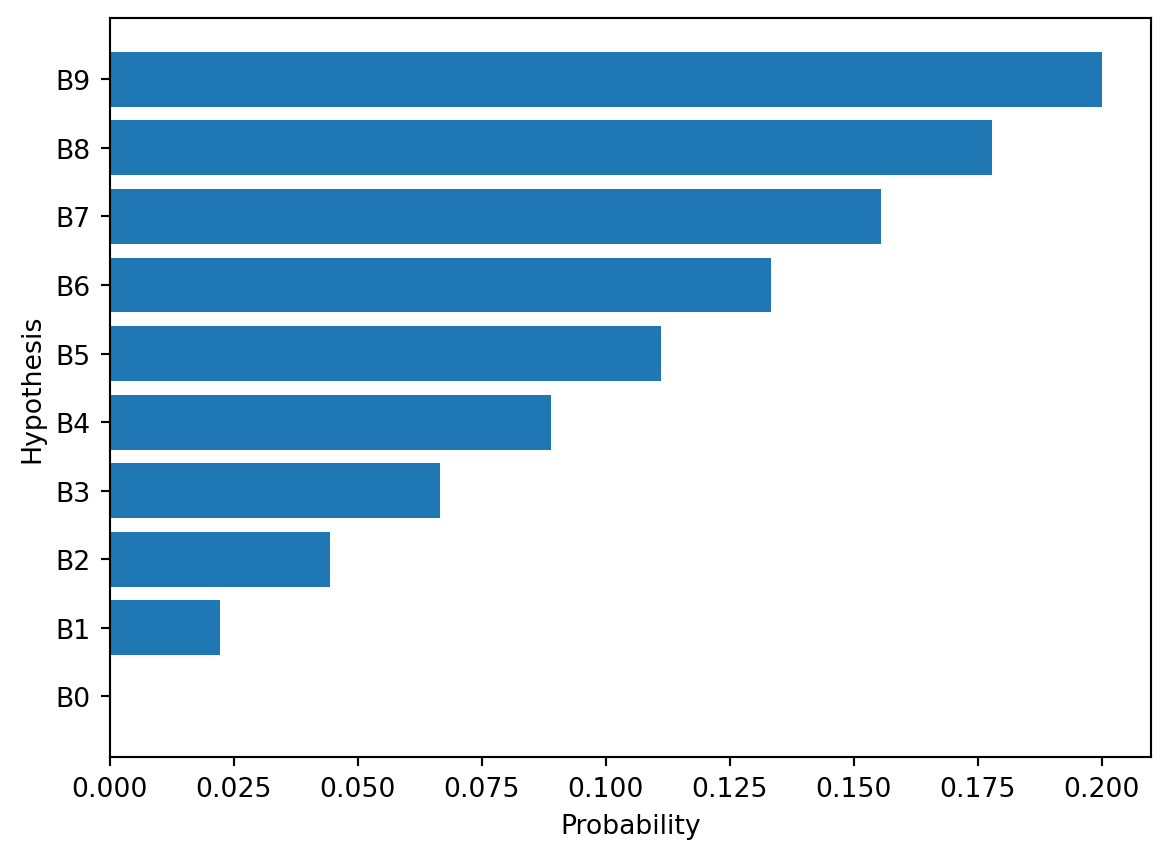
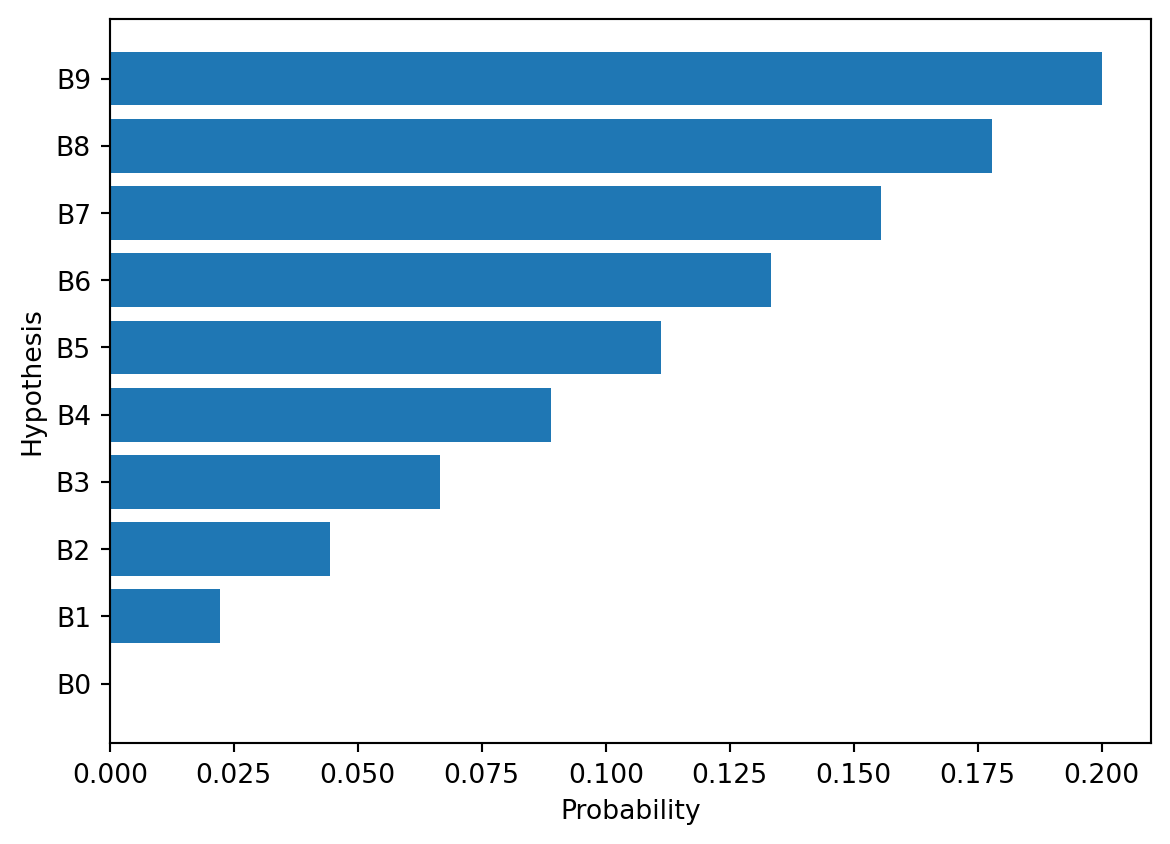
Revisions to Chapter 1

diff --git a/docs/01-intro.html b/docs/01-intro.html
@@ -219,27 +219,27 @@ gtag('config', 'G-HG2MG0W08W', { 'anonymize_ip': true});
 </header>
 
 <p>The field of psychology is full of theories. But this book is focused on a specific type of theory: the type that can be formalized as a computational model.</p>
-<p>What advantage does a computational (or mathematical) theory have over one that can’t be expressed in computational terms? The biggest advantage is precision. For example, suppose you say that attention is like a spotlight 🔦: you can attend to things that are currently within the light, and you can control where the light is shining, but things outside of the light are outside of our awareness. This is a kind of theory – an analogy-based one – and it’s a good start for making some general <em>qualitative</em> predictions about how attention works.</p>
+<p>What advantage does a computational (or mathematical) theory have over one that can’t be expressed in computational terms? The biggest advantage is precision. For example, suppose you say that attention is like a spotlight 🔦: we can attend to things that are currently within the light, and we can control where the light is shining, but things outside of the light are outside of our awareness. This is a kind of theory – an analogy-based one – and it’s a good start for making some general <em>qualitative</em> predictions about how attention works.</p>
 <p>But you’ll quickly run into problems if you want to make precise <em>quantitative</em> predictions about attention. How big is the spotlight? Does the size expand and contract? How quickly does it move around? Is attention completely absent outside of the spotlight or does it ramp down as you get near the edge of the light? In other words, if you wanted to build a computer model of this theory, a simple analogy doesn’t cut it.</p>
-<p><em>Computational models, if nothing else, force us to be explicit about all of our assumptions.</em></p>
+<p><em>Computational models force us to be explicit about our assumptions.</em></p>
 <section id="representations" class="level2" data-number="1.1">
 <h2 data-number="1.1" class="anchored" data-anchor-id="representations"><span class="header-section-number">1.1</span> Representations 🔸</h2>
-<p>We don’t perceive the world as it truly is. As one example, the visible spectrum that our eyes can detect is just a fraction of the full electromagnetic spectrum. Similarly, we can only hear a narrow range of audible sound frequencies. In other words, we perceive an incomplete picture of the surrounding world.</p>
+<p>We don’t perceive the world as it truly is. As one example, the visible spectrum that our eyes can detect is just a fraction of the full electromagnetic spectrum. Similarly, we can only hear a narrow range of sound frequencies. In other words, we perceive an incomplete picture of the world.</p>
 <div class="quarto-figure quarto-figure-center">
 <figure class="figure">
 <p><img src="images/01/range_of_sensation.png" class="img-fluid figure-img"></p>
 <figcaption class="figure-caption">Source: Abstruse Goose.</figcaption>
 </figure>
 </div>
-<p>Similarly, we are constantly making assumptions about the things we see and hear and using those assumptions to fill in gaps.</p>
-<p>What we have in our heads is a kind of model of the world around us – what cognitive scientists call a mental representation. These representations help us to reach rapid conclusions about things involving language, causes and effects, concepts, mental states, and many other aspects of cognition.</p>
+<p>Even for the parts of the world that we <em>can</em> perceive, the information we get through our senses is often incomplete, so we are constantly making assumptions to fill in gaps.</p>
+<p>As a result, what we have in our heads is a kind of model of the world around us – what cognitive scientists call a mental representation. These representations help us to reach rapid conclusions about things involving language, causes and effects, concepts, mental states, and many other aspects of cognition.</p>
 <p>Some of the key questions for cognitive scientists who use computational models are:</p>
 <ol type="1">
 <li>What mental representations do we rely on?</li>
 <li>How do our minds use these representations to learn when we get new information?</li>
 <li>What kind of information do we get and how do our expectations about the kind of information we’re getting to affect how we use it?</li>
 </ol>
-<p>This book will elaborate, with examples, on each of these questions.</p>
+<p>This book focuses on each of these questions.</p>
 </section>
 <section id="homework-1-build-your-first-computational-model" class="level2" data-number="1.2">
 <h2 data-number="1.2" class="anchored" data-anchor-id="homework-1-build-your-first-computational-model"><span class="header-section-number">1.2</span> Homework 1: Build your first computational model 💻</h2>
@@ -249,9 +249,7 @@ gtag('config', 'G-HG2MG0W08W', { 'anonymize_ip': true});
 </figure>
 </div>
 <p>To get some initial experience with computational modeling, you’ll build and experiment with a simple model of classical conditioning developed by Robert Rescorla and Allan Wagner – now called the Rescorla-Wagner model.</p>
-<p>All homework assignments for this book will be done in Google Colab. Click the button above at the top of this section view Homework 1.</p>
-<p>If you’re unfamiliar with Colab (or Jupyter Notebooks), watch this brief introduction video.</p>
-<div class="quarto-video ratio ratio-16x9"><iframe data-external="1" src="https://www.youtube.com/embed/inN8seMm7UI" title="" frameborder="0" allow="accelerometer; autoplay; clipboard-write; encrypted-media; gyroscope; picture-in-picture" allowfullscreen=""></iframe></div>
+<p>All homework assignments for this book will be done in Google Colab. Click the button at the top of this section to view Homework 1.</p>
 <div class="callout callout-style-default callout-note callout-titled">
 <div class="callout-header d-flex align-content-center">
 <div class="callout-icon-container">
@@ -265,6 +263,10 @@ Note
 <p>You’ll have to make a copy of the notebook saved to your own Drive in order to edit it.</p>
 </div>
 </div>
+<p>If you’re unfamiliar with Colab (or Jupyter Notebooks), watch this brief introduction video.</p>
+<div class="quarto-video ratio ratio-16x9"><iframe data-external="1" src="https://www.youtube.com/embed/inN8seMm7UI" title="" frameborder="0" allow="accelerometer; autoplay; clipboard-write; encrypted-media; gyroscope; picture-in-picture" allowfullscreen=""></iframe></div>
+<p>This video gives some extra tips for working with Colab.</p>
+<div class="quarto-video ratio ratio-16x9"><iframe data-external="1" src="https://www.youtube.com/embed/rNgswRZ2C1Y?si=aVooywIqX0_G0NId" title="" frameborder="0" allow="accelerometer; autoplay; clipboard-write; encrypted-media; gyroscope; picture-in-picture" allowfullscreen=""></iframe></div>
 
 
 </section>

diff --git a/docs/02-bayes.html b/docs/02-bayes.html
@@ -257,7 +257,7 @@ gtag('config', 'G-HG2MG0W08W', { 'anonymize_ip': true});
 
 <header id="title-block-header" class="quarto-title-block default">
 <div class="quarto-title">
-<h1 class="title"><span id="bayes" class="quarto-section-identifier"><span class="chapter-number">2</span>&nbsp; <span class="chapter-title">Bayesian inference</span></span></h1>
+<h1 class="title"><span class="chapter-number">2</span>&nbsp; <span class="chapter-title">Bayesian inference</span></h1>
 </div>
 
 
@@ -340,7 +340,7 @@ gtag('config', 'G-HG2MG0W08W', { 'anonymize_ip': true});
 <pre><code>Text(0, 0.5, 'Number of samples')</code></pre>
 </div>
 <div class="cell-output cell-output-display">
-<p><img src="02-bayes_files/figure-html/cell-4-output-2.png" width="602" height="429"></p>
+<p><img src="02-bayes_files/figure-html/cell-4-output-2.png" width="601" height="422"></p>
 </div>
 </div>
 <p>Now for the next step. For each sample in <code>prior_samples</code>, we want to sample an observation. To do that, let’s pause for a second and think about the probability of pulling a black ball given that hypothesis <span class="math inline">\(B_3\)</span> is true, for example. This means that there are 3 black balls and 6 red balls in the bag. So the probability of pulling a black ball from the bag at random will be 3/9.</p>
@@ -358,7 +358,7 @@ gtag('config', 'G-HG2MG0W08W', { 'anonymize_ip': true});
 <span id="cb9-2"><a href="#cb9-2" aria-hidden="true" tabindex="-1"></a>                                  p <span class="op">=</span> p_black)</span>
 <span id="cb9-3"><a href="#cb9-3" aria-hidden="true" tabindex="-1"></a><span class="bu">print</span>(ball_samples[<span class="dv">0</span>:<span class="dv">9</span>])</span></code><button title="Copy to Clipboard" class="code-copy-button"><i class="bi"></i></button></pre></div>
 <div class="cell-output cell-output-stdout">
-<pre><code>[0 1 0 0 1 1 0 1 1]</code></pre>
+<pre><code>[1 0 1 0 1 1 0 1 1]</code></pre>
 </div>
 </div>
 <p><code>ball_samples</code> is 1 for black and 0 for red. Once again, let’s plot all our samples.</p>
@@ -371,7 +371,7 @@ gtag('config', 'G-HG2MG0W08W', { 'anonymize_ip': true});
 <pre><code>Text(0, 0.5, 'Number of samples')</code></pre>
 </div>
 <div class="cell-output cell-output-display">
-<p><img src="02-bayes_files/figure-html/cell-7-output-2.png" width="602" height="411"></p>
+<p><img src="02-bayes_files/figure-html/cell-7-output-2.png" width="601" height="404"></p>
 </div>
 </div>
 <p>You can think of this plot representing our overall beliefs about the number of red and black balls in the bag, averaged over all possible hypotheses.</p>
@@ -467,7 +467,7 @@ P(B9|B) = 0.2</code></pre>
 <pre><code>Text(0, 0.5, 'Hypothesis')</code></pre>
 </div>
 <div class="cell-output cell-output-display">
-<p><img src="02-bayes_files/figure-html/cell-12-output-2.png" width="585" height="429"></p>
+<p><img src="02-bayes_files/figure-html/cell-12-output-2.png" width="585" height="422"></p>
 </div>
 </div>
 </section>
